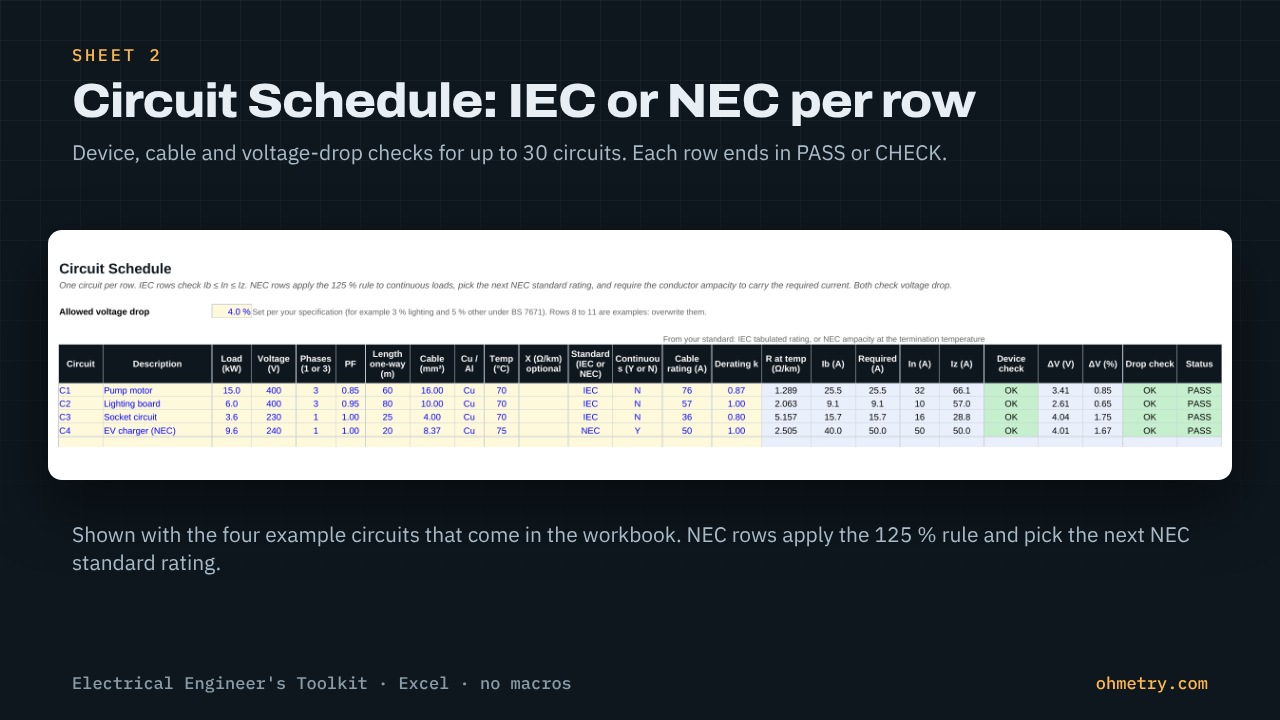
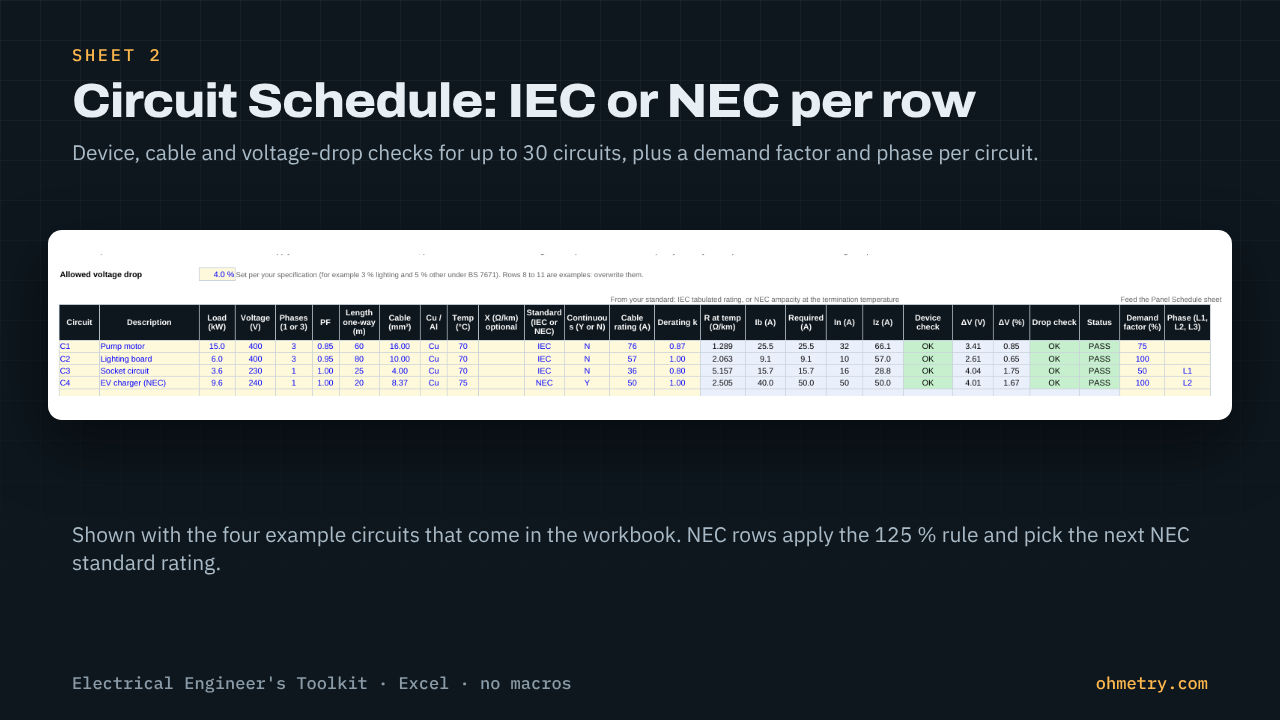
Toolkit v1.2: fifteen sheets, linked Panel Schedule, 83 checks; refresh listing images and notes
Claude-Session: https://claude.ai/code/session_01P7VZ8UCLuzA13PXkdqGsAp

Changed region(s): [[0.0312, 0.3667, 0.9688, 0.6722], [0.5, 0.1833, 0.7812, 0.2444], [0.7812, 0.2139, 0.8125, 0.2444]]

diff --git a/docs/HANDOFF.md b/docs/HANDOFF.md
@@ -15,7 +15,7 @@ Free NEC-first electrical, solar and protection calculators plus a paid Excel wo
 
 ## State (2026-10-15)
 - Live: 56 indexable pages, including 10 formula-based chart pages under `/charts/` (kW to amps, voltage drop, wire resistance, transformer, power factor and others). Chart numbers come from `src/lib/calc/charts.ts`, which has tests.
-- Gumroad product live at https://ohmetry.gumroad.com/l/hdauo, verified (cover, 5 gallery images, 57.7 KB workbook v1.1.1, thumbnail, 30-day refund). `gumroadUrl` is set in `src/data/site.ts`.
+- Gumroad product live at https://ohmetry.gumroad.com/l/hdauo, verified (cover, gallery images, 55.3 KB workbook v1.2 uploaded 2026-11-04, thumbnail, 30-day refund). `gumroadUrl` is set in `src/data/site.ts`.
 - Email capture is built and **hidden** until `emailFormAction` in `src/data/site.ts` is set. Setup steps: `docs/EMAIL-SETUP.md` (Brevo). Free sample workbook: `public/downloads/ohmetry-sample-sheet.xlsx` (build script `docs/build_sample_sheet.py`).
 - Search Console (domain property sc-domain:ohmetry.com): 42 of 56 pages indexed as of 2026-10-15. 632 impressions, 1 click, average position 70.7 (data to Oct 12). Dashboard: GitHub Pages site built by `.github/workflows/dashboard.yml`, data in `docs/seo/`.
 - Ahrefs Webmaster Tools verified. The 51 "backlinks" it shows are spam on numeric .xyz domains (nofollow); real backlinks = 0. Ignore them, do not disavow.
